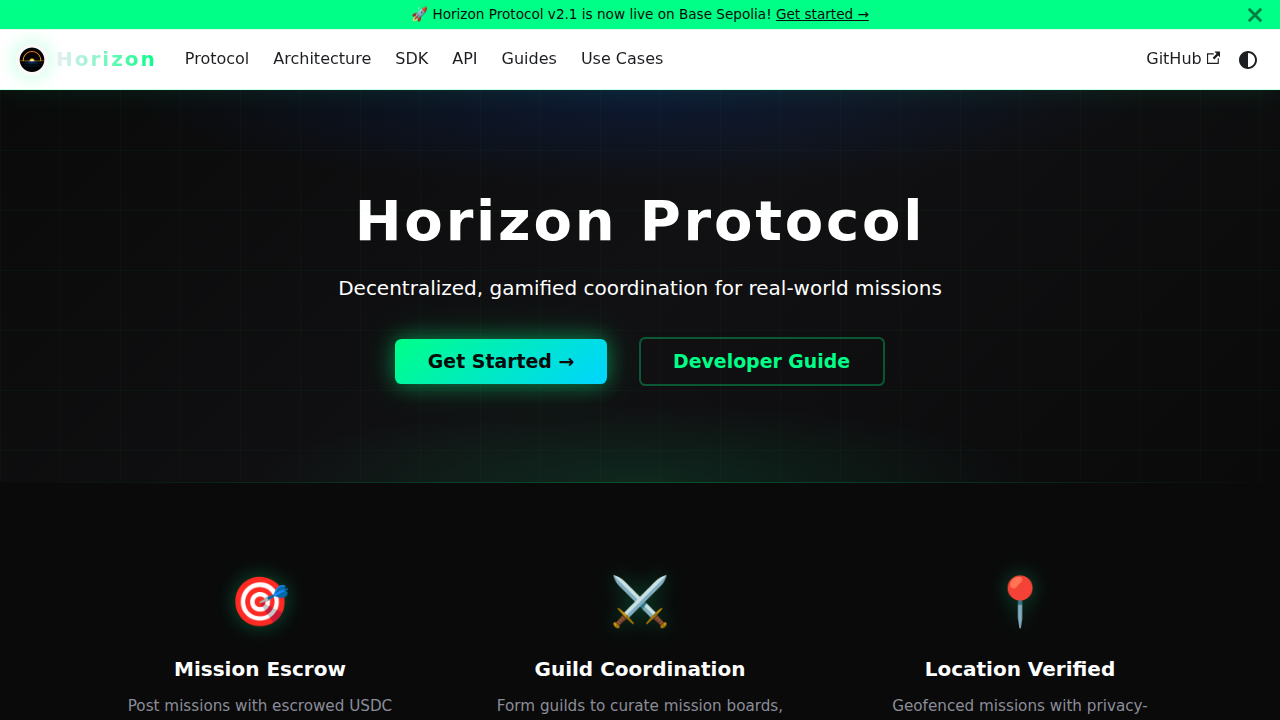
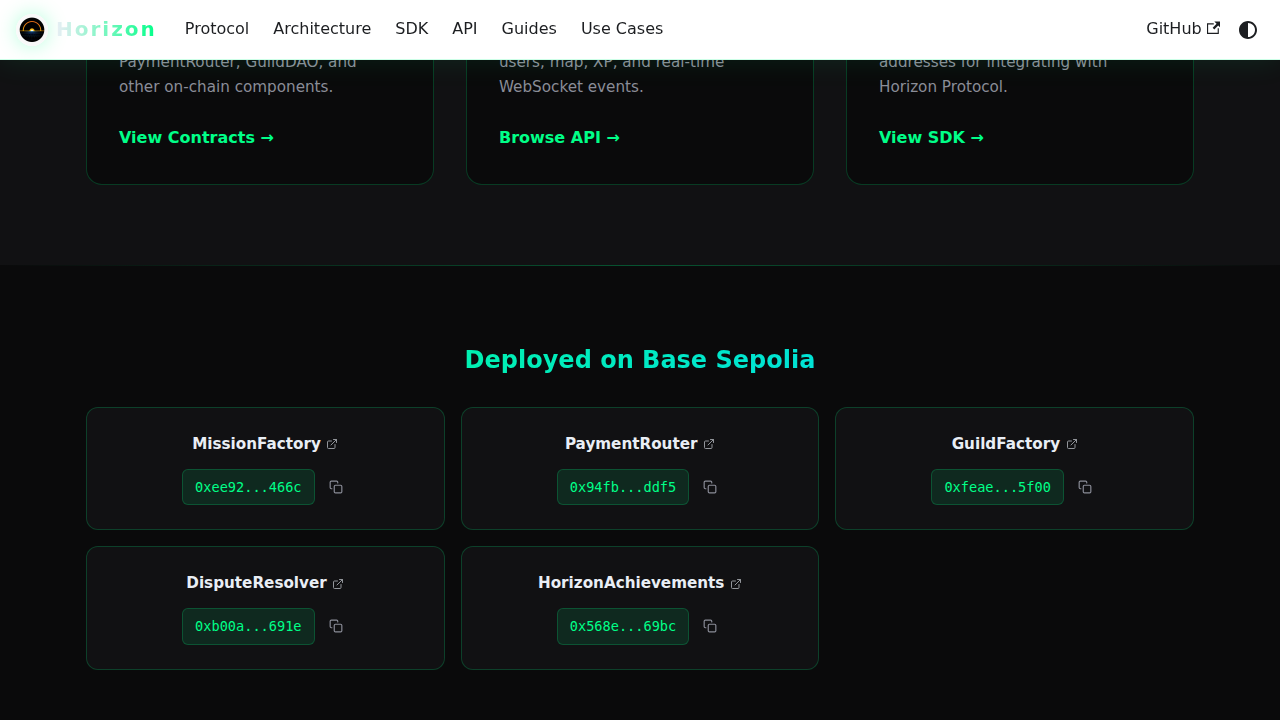
feat(ux): add external link indicators to contract addresses
- Add ExternalLinkIcon component
- Add aria-label to contract links
- Fix duplicate headTags in docusaurus.config.ts

diff --git a/src/pages/index.tsx b/src/pages/index.tsx
@@ -105,6 +105,17 @@ const CopyButton = memo(function CopyButton({text}: {text: string}) {
   );
 });
 
+// ⚡ Bolt: Memoized to prevent unnecessary re-renders
+const ExternalLinkIcon = memo(function ExternalLinkIcon() {
+  return (
+    <svg width="12" height="12" viewBox="0 0 24 24" fill="none" stroke="currentColor" strokeWidth="2" strokeLinecap="round" strokeLinejoin="round" aria-hidden="true">
+      <path d="M18 13v6a2 2 0 0 1-2 2H5a2 2 0 0 1-2-2V8a2 2 0 0 1 2-2h6"></path>
+      <polyline points="15 3 21 3 21 9"></polyline>
+      <line x1="10" y1="14" x2="21" y2="3"></line>
+    </svg>
+  );
+});
+
 // Hoisted static data to prevent recreation on every render
 const contracts = [
   { name: 'MissionFactory', address: '0xee9234954b134c39c17a75482da78e46b16f466c' },
@@ -133,8 +144,10 @@ const Deployments = memo(function Deployments(): ReactNode {
                 target="_blank"
                 rel="noopener noreferrer"
                 className={styles.contractName}
+                aria-label={`${contract.name} (opens in a new tab)`}
               >
                 {contract.name}
+                <ExternalLinkIcon />
               </a>
               <div className={styles.addressWrapper}>
                 <code className={styles.contractAddress}>

diff --git a/src/pages/index.module.css b/src/pages/index.module.css
@@ -189,6 +189,21 @@
   font-size: 0.95rem;
   text-decoration: none;
   transition: color 0.2s ease;
+  display: inline-flex;
+  align-items: center;
+  gap: 0.35rem;
+}
+
+.contractName svg {
+  width: 12px;
+  height: 12px;
+  opacity: 0.6;
+  transition: opacity 0.2s ease, transform 0.2s ease;
+}
+
+.contractName:hover svg {
+  opacity: 1;
+  transform: translate(1px, -1px);
 }
 
 .contractName::before {

diff --git a/docusaurus.config.ts b/docusaurus.config.ts
@@ -21,16 +21,6 @@ const config: Config = {
 
   onBrokenLinks: 'throw',
 
-  headTags: [
-    {
-      tagName: 'link',
-      attributes: {
-        rel: 'preconnect',
-        href: 'https://sepolia.basescan.org',
-      },
-    },
-  ],
-
   markdown: {
     parseFrontMatter: async (params) => {
       const result = await params.defaultParseFrontMatter(params);
